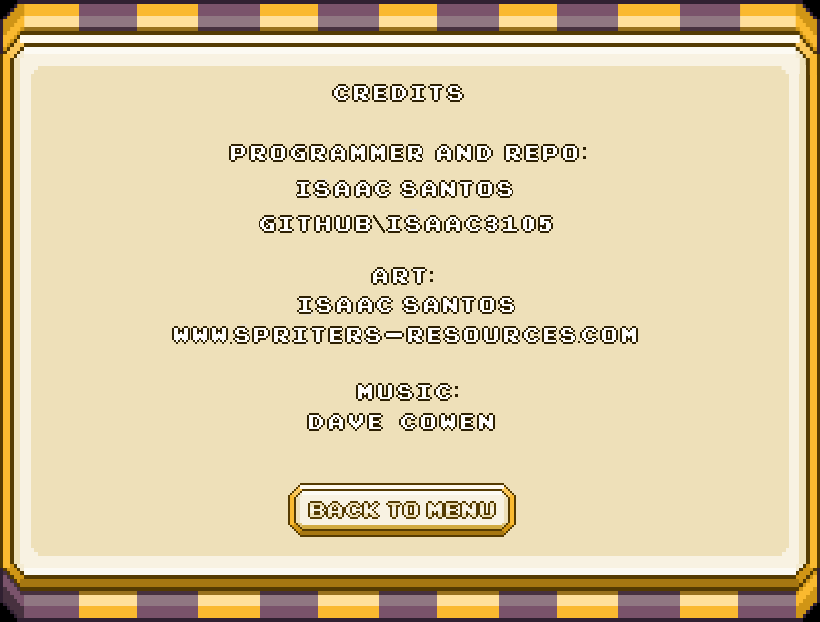
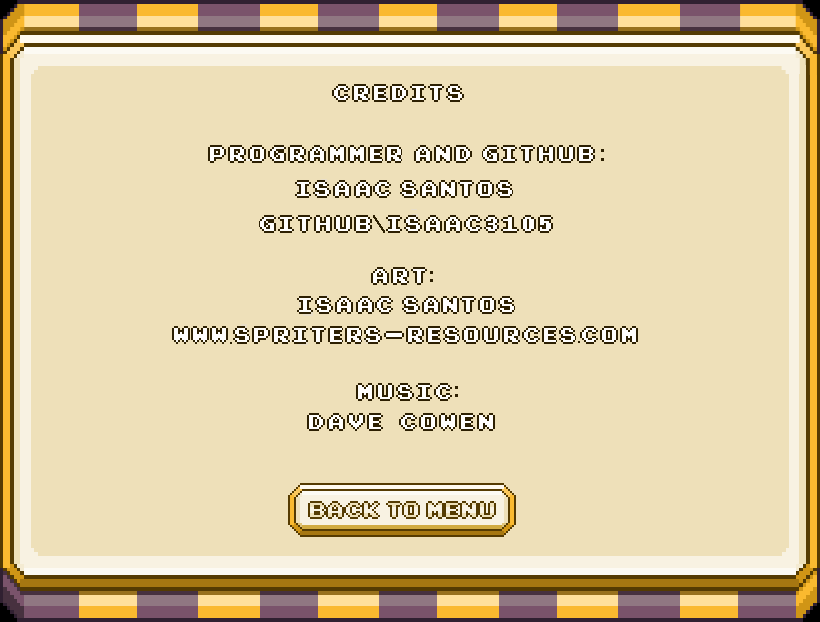
Finished credits state and implementation

Changed region(s): [[0.2439, 0.2138, 0.7317, 0.2749]]

diff --git a/main.py b/main.py
@@ -598,6 +598,7 @@ def play_music_for_screen(active_screen):
         "levels": "Resources/music/MenuMusic.mp3", 
         "paused": "Resources/music/MenuMusic.mp3", 
         "help": "Resources/music/MenuMusic.mp3", 
+        "credits": "Resources/music/MenuMusic.mp3",
         "gaming": "Resources/music/GameMusic.mp3",
     }
 
@@ -1123,7 +1124,16 @@ if True:
 #Instancias do Help e derivados
 if True:
     menu_button_surf = pygame.image.load("Resources/help/pressed_back_menu_button.png")
-    menu_button_rect = pygame.Rect(293,485,228,54)
+    menu_button_rect = pygame.Rect(288,483,228,54)
+
+    buttons.update({
+        menu_button_surf:(menu_button_rect,True)
+    })
+
+#Instancias do Credits e derivados
+if True:
+    menu_button_surf = pygame.image.load("Resources/credits/pressed_back_menu_button.png")
+    menu_button_rect = pygame.Rect(288,483,228,54)
 
     buttons.update({
         menu_button_surf:(menu_button_rect,True)
@@ -1186,10 +1196,13 @@ while True:
                 elif help_button_rect.collidepoint(event.pos):
                     active_screen = "help"
                 elif credits_button_rect.collidepoint(event.pos):
-                    #active_screen = "credits"
-                    pass
+                    active_screen = "credits"
 
             elif active_screen == "help":
+                if menu_button_rect.collidepoint(event.pos):
+                    active_screen = "start"
+
+            elif active_screen == "credits":
                 if menu_button_rect.collidepoint(event.pos):
                     active_screen = "start"
 
@@ -1384,7 +1397,10 @@ while True:
 
     # Credits State
     elif active_screen == "credits":
-        pass
+        credits_interface = pygame.image.load("Resources/credits/background.png")
+        credits_rect = credits_interface.get_rect(center = (SCREEN_WIDTH//2,SCREEN_HEIGHT//2))
+        screen.blit(credits_interface,credits_rect)
+        screen.blit(menu_button_surf,menu_button_rect)
 
     # Update the screen
     pygame.display.update()
